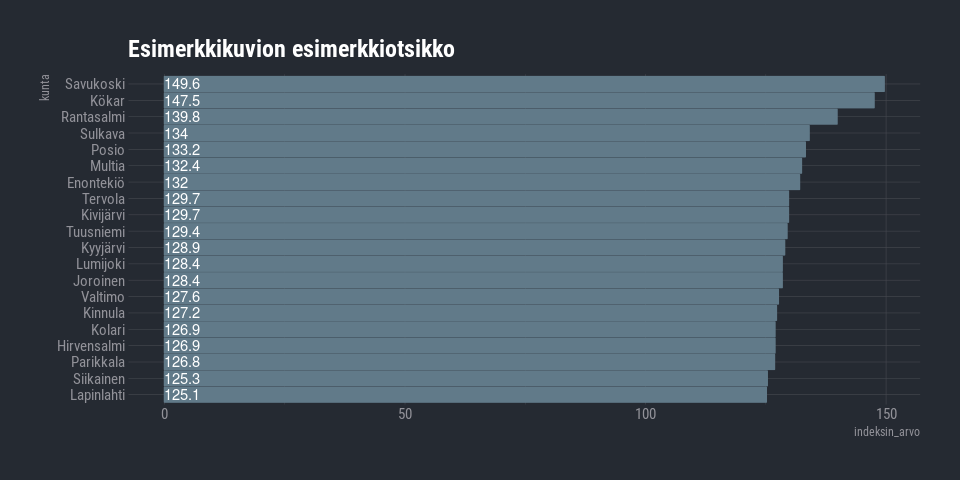
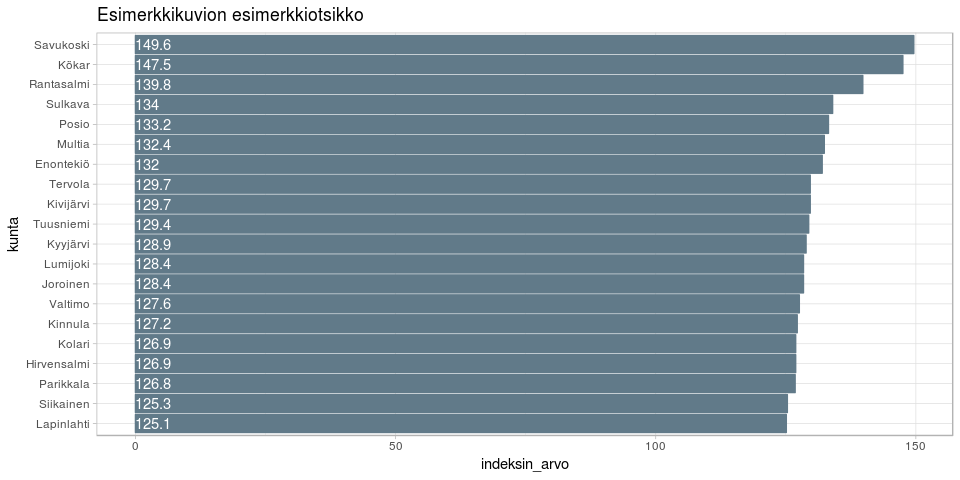
joini tilastokeskuksen dataan lisätty

diff --git a/2019-03-15-terveyspuntarin-sairastavuusindeksi/esimerkki_R.md b/2019-03-15-terveyspuntarin-sairastavuusindeksi/esimerkki_R.md
@@ -22,7 +22,6 @@
     library(readr)
     library(knitr)
     library(glue)
-    library(hrbrthemes)
 
 Resurssien lataaminen
 ---------------------
@@ -191,9 +190,31 @@ Kuvio
       theme_minimal() +
       geom_text(aes(y = 0), hjust = 0, color = "white") +
       labs(title = "Esimerkkikuvion esimerkkiotsikko") +
-      theme_ft_rc()
+      theme_light()
 
 ![](esimerkki_R_files/figure-markdown_strict/kuva1-1.png)
+
+Datan yhdistäminen Tilastokeskuksen kuntien avainlukuihin
+---------------------------------------------------------
+
+    library(pxweb)
+    tk_avainluvut <- 
+      get_pxweb_data(url = "http://pxnet2.stat.fi/PXWeb/api/v1/fi/Kuntien_avainluvut/2018/kuntien_avainluvut_2018_viimeisin.px",
+                     dims = list("Alue 2018" = c('*'),
+                                 Tiedot = c('*')),
+                     clean = FALSE)
+    df <- left_join(dat, tk_avainluvut, by = c("kunta" = "Alue 2018"))
+    # Piirretään hajontakuvio
+    df2 <- df %>% 
+      filter(vuosi == 2017,
+             indeksi == "-kuolleisuusindeksi") 
+
+    ggplot(df2, aes(x = `Yli 64-vuotiaiden osuus väestöstä, %, 2017`, y = indeksin_arvo, size = `Väkiluku, 2017`)) + 
+      geom_point(alpha = .3) +
+      labs(y = "Kuolleisuusindeksi") + 
+      theme_light()
+
+![](esimerkki_R_files/figure-markdown_strict/join-1.png)
 
 Datastore-api
 -------------
